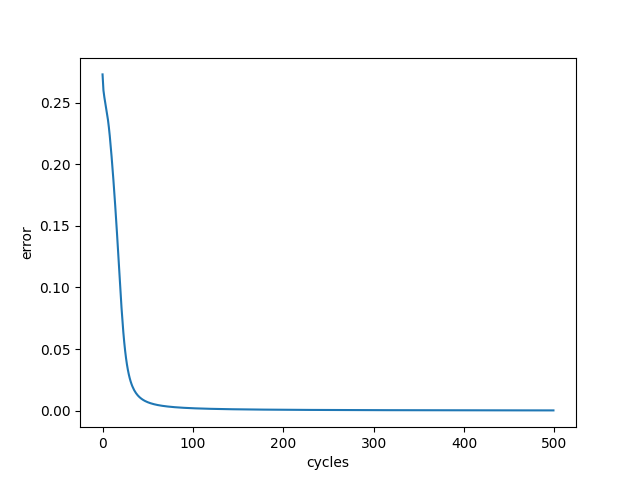
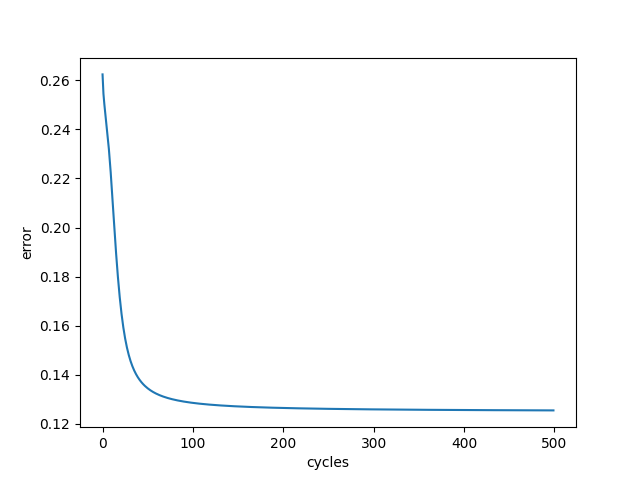
Added net.py

diff --git a/net.py b/net.py
@@ -1,0 +1,185 @@
+import numpy as np
+import matplotlib.pyplot as plt
+
+
+class Network:
+    def __init__(self, layout) -> None:
+        self.layout = layout
+
+        self.weights, self.biases = self.setup_network(layout)
+    
+    def setup_network(self, layout):
+        # weights = [np.random.rand(layout[k], layout[k-1]) for k in range(1, len(layout))]
+        weights = np.array([np.random.randn(y, x) for x, y in zip(layout[:-1], layout[1:])])
+        biases = [np.random.randn(k, 1) for k in layout[1:]]
+        
+        return weights, biases
+    
+    def sigmoid(self, z):
+        return 1 / (1 + np.exp(-z))
+    
+    def sigmoid_prime(self, z):
+        return self.sigmoid(z) * (1 - self.sigmoid(z))
+    
+    def cost_derivative(self, output_activations, y):
+        return (output_activations - y)
+    
+    def forward_propogate(self, inputs):
+        for l in range(len(self.layout)-1):
+            a = self.sigmoid(np.dot(self.weights[l], inputs) + self.biases[l])
+            inputs = a
+        return a
+
+    def train(self, tdata, bsize, cycles, alpha):
+        for c in range(cycles):
+            np.random.shuffle(tdata)
+            mbatches = [tdata[n:n+bsize] for n in range(0, len(tdata), bsize)]
+            for mbatch in mbatches:
+                self.learn(mbatch, alpha)
+    
+    def learn(self, mbatch, alpha):
+        weight_deriv = [np.zeros(weight.shape) for weight in self.weights]
+        bias_deriv = [np.zeros(bias.shape) for bias in self.biases]
+        
+        for x, y in mbatch:
+            delta_nabla_b, delta_nabla_w = self.backwards_propogate(x, y)
+            bias_deriv = [nb+dnb for nb, dnb in zip(bias_deriv, delta_nabla_b)]
+            weight_deriv = [nw+dnw for nw, dnw in zip(weight_deriv, delta_nabla_w)]
+        # for input, exp_output in mbatch:            # HERE MAYBE
+        #     dw, db = self.backwards_propogate(input, exp_output)
+        #     weight_deriv = np.sum(weight_deriv, dw)
+        #     bias_deriv = np.sum(bias_deriv, db)
+        
+        self.weights = [w - (alpha / len(mbatch))*wd for w, wd in zip(self.weights, weight_deriv)]
+        self.biases = [b - (alpha / len(mbatch))*bd for b, bd in zip(self.biases, bias_deriv)]
+    
+    def backwards_propogate(self, input, output):
+        weight_deriv = [np.zeros(weight.shape) for weight in self.weights]
+        bias_deriv = [np.zeros(bias.shape) for bias in self.biases]
+                
+        a = input
+        actv = list(input)
+        ws = list()
+        for weight, bias in zip(self.weights, self.biases):
+            w = np.dot(weight, a) + bias
+            a = self.sigmoid(w)
+            ws.append(w)
+            actv.append(a)
+        
+        # propogate error backwards
+        error_l = np.multiply(self.cost_derivative(actv[-1], output), self.sigmoid_prime(ws[-1]))
+        bias_deriv[-1] = error_l
+        weight_deriv[-1] = np.dot(error_l, actv[-2].transpose())
+        
+        for l in range(2, len(self.layout)):
+            error_l = np.dot(self.weights[-l+1].transpose(), error_l) * self.sigmoid_prime(ws[-1])
+            weight_deriv[-l] = np.dot(error_l, actv[-l-1].transpose())
+            bias_deriv[-l] = error_l
+        
+        return weight_deriv, bias_deriv
+        
+class Net:
+    def __init__(self, layout) -> None:
+        self.layout = layout
+        self.setup_layout(layout)
+    
+    def setup_layout(self, layout):
+        self.biases = [np.random.randn(y, 1) for y in layout[1:]]
+        self.weights = [np.random.randn(y, x)
+                        for x, y in zip(layout[:-1], layout[1:])]
+    
+    def feedforward(self, a):
+        for b, w in zip(self.biases, self.weights):
+            a = sigmoid(np.dot(w, a)+b)
+        return a
+
+    def train(self, tdata, bsize, alpha, cycles):
+        errors = list()
+        
+        for c in range(cycles):
+            if not c % 100: errors.append(self.cost_function(tdata))
+            
+            np.random.shuffle(tdata)
+            mbatches = [tdata[n:n+bsize] for n in range(0, len(tdata), bsize)]
+            for mbatch in mbatches:
+                self.learn(mbatch, alpha)
+
+        plt.plot(errors)
+        plt.xlabel("cycles")
+        plt.ylabel("error")
+        plt.savefig("network_performance.png")
+    
+    def learn(self, mbatch, alpha):
+        nabla_b = [np.zeros(b.shape) for b in self.biases]
+        nabla_w = [np.zeros(w.shape) for w in self.weights]
+        
+        for x, y in mbatch:
+            delta_nabla_b, delta_nabla_w = self.backprop(x, y)
+            nabla_b = [nb+dnb for nb, dnb in zip(nabla_b, delta_nabla_b)]
+            nabla_w = [nw+dnw for nw, dnw in zip(nabla_w, delta_nabla_w)]
+        
+        # update the weights & biases
+        
+        self.weights = [w - (alpha / len(mbatch))*nw for w, nw in zip(self.weights, nabla_w)]
+        self.biases = [b - (alpha / len(mbatch)*nb) for b, nb in zip(self.biases, nabla_b)]
+
+    def backprop(self, x, y):
+        nabla_b = [np.zeros(b.shape) for b in self.biases]
+        nabla_w = [np.zeros(w.shape) for w in self.weights]
+        
+        # feedforward
+        activation = x
+        activations = [x]
+        zs = []
+        for b, w in zip(self.biases, self.weights):
+            z = np.dot(w, activation) + b
+            zs.append(z)
+            activation = sigmoid(z)
+            activations.append(activation)
+            
+        # go back
+        delta = np.multiply(self.cost_derivative(activations[-1], y), sigmoid_prime(zs[-1])) # BP1
+        nabla_b[-1] = delta
+        nabla_w[-1] = np.dot(delta, activations[-2].transpose())
+        
+        for l in range(2, len(self.layout)):
+            z = zs[-l]
+            sp = sigmoid_prime(z)
+            delta = np.dot(self.weights[-l+1].transpose(), delta) * sp
+            nabla_b[-l] = delta
+            nabla_w[-l] = np.dot(delta, activations[-l-1].transpose())
+        
+        return (nabla_b, nabla_w)
+
+    def cost_derivative(self, output_activations, y):
+        return (output_activations - y)
+    
+    def cost_function(self, tdata):
+        total = 0
+        for x, y in tdata:
+            a = self.feedforward(x)
+            total += sum(np.square(y - a))
+        return total / len(tdata)
+    
+    def evaluate(self, test_data):
+        test_rs = [(np.argmax(self.feedforward(x)), y) for (x, y) in test_data]
+        return sum(int(x == y) for x, y in test_rs)
+
+def sigmoid(z):
+    return 1 / (1 + np.exp(-z))
+
+def sigmoid_prime(z):
+    return sigmoid(z) * (1 - sigmoid(z))
+
+xor = [
+    (np.array([np.array([0]), np.array([0])]), 0),
+    (np.array([np.array([1]), np.array([1])]), 0),
+    (np.array([np.array([0]), np.array([1])]), 1),
+    (np.array([np.array([1]), np.array([0])]), 1)
+]
+
+net = Net([2, 3, 1])
+net.train(xor, 1, 0.1, 50000)
+
+for e in xor:
+    print(net.feedforward(e[0]), e[1])
